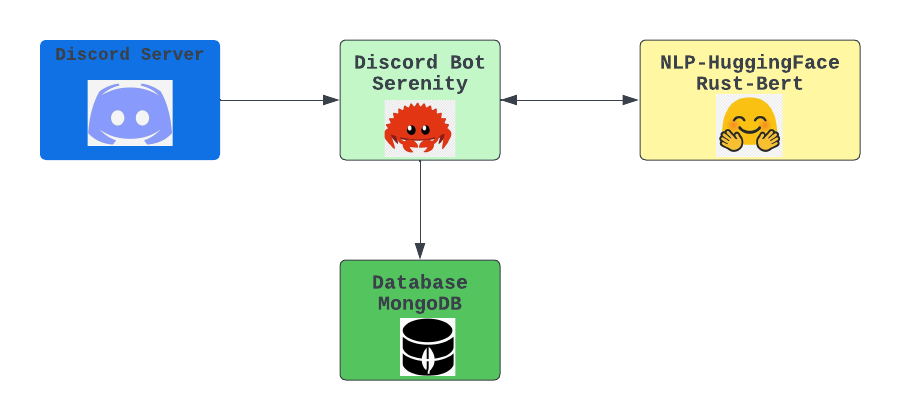
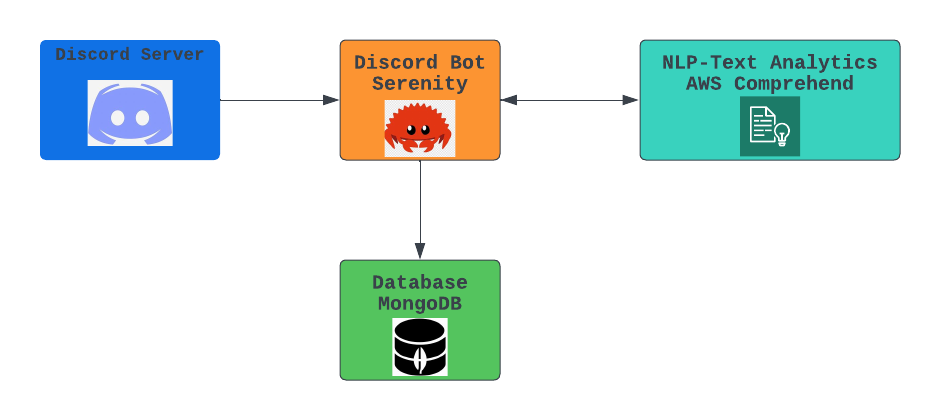
discord-emotion-tracker: change from using Rust-Bert built models to cloud provider service (AWS Comprehend)

diff --git a/README.md b/README.md
@@ -1,27 +1,32 @@
 # Discord Emotion Tracker
-- Discord Emotion Tracker is an application that collects messages from customer service channels on Discord and uses natural language processing (Rust-BERT library) techniques for sentiment analysis. By processing these messages, the application can provide valuable insights into customer emotions and feedback.
+- Discord Emotion Tracker is an application that collects messages from customer service channels on Discord and uses natural language processing techniques for sentiment analysis with AWS Comprehend. By processing these messages, the application can provide valuable insights into customer emotions and feedback.
 - The application then stores the messages along with their sentiment analysis results in a MongoDB database.
 
 ## Features
 - Collect messages from Discord channels using the Serenity library
-- Send collected messages to a web server for further processing (Performs sentiment analysis on messages using Rust-BERT)
-- Perform sentiment analysis using NLP machine learning models
+- Send collected messages to AWS Comprehend for sentiment analysis
 - Store processed messages and sentiment analysis results in MongoDB
-- Built using Rust, Serenity, Rust-Bert, Axum, and MongoDB
+- Built using Rust, Serenity, AWS Comprehend, and MongoDB
 
 ## Architecture Diagram
 ![](./emotion-tracker-diagram.png)
 
 ```
     discord-emotion-tracker/
-    ├── src/
-    │   ├── config.rs
-    │   ├── config.yaml
-    │   ├── discord_bot.rs
-    │   ├── main.rs
-    │   └── mongo.rs
+    ├── Cargo.lock
     ├── Cargo.toml
-    └── README.md
+    ├── Dockerfile
+    ├── README.md
+    ├── config.sample.yaml
+    ├── config.yaml
+    ├── emotion-tracker-diagram.png
+    └── src
+        ├── config.rs
+        ├── discord.rs
+        ├── main.rs
+        ├── mongo.rs
+        ├── scheduler.rs
+        └── util.rs
 ```
 
 ## Installation and Setup
@@ -80,8 +85,7 @@
     - `docker run --env APP_ENV=development discord-emotion-tracker`
 
 ## Usage
-Once the application is running, it will listen to messages from the configured Discord channels. Messages will be sent to the web server for processing and sentiment analysis. The processed messages and sentiment analysis results will be stored in the MongoDB database.
-
+- Once the application is running, it will listen to messages from the configured Discord channels. Messages will be sent to AWS Comprehend for sentiment analysis. The processed messages and sentiment analysis results will be stored in the MongoDB database.
 ## Contributing
 We welcome contributions! If you'd like to help improve Discord Emotion Tracker, please follow these steps:
 
@@ -95,6 +99,5 @@ This project is licensed under the [MIT License](https://opensource.org/licenses
 ## Acknowledgements
 - [Rust](https://www.rust-lang.org/)
 - [Serenity](https://github.com/serenity-rs/serenity): Discord API library
-- [Rust-Bert](https://github.com/guillaume-be/rust-bert): Rust-native state-of-the-art Natural Language Processing models and pipelines
-- [Axum](https://github.com/tokio-rs/axum)
+- [AWS Comprehend](https://docs.aws.amazon.com/comprehend/latest/dg/what-is.html): Natural Language Processing and Text Analytics
 - [MongoDB](https://www.mongodb.com/): A document database for storing messages and analysis results
